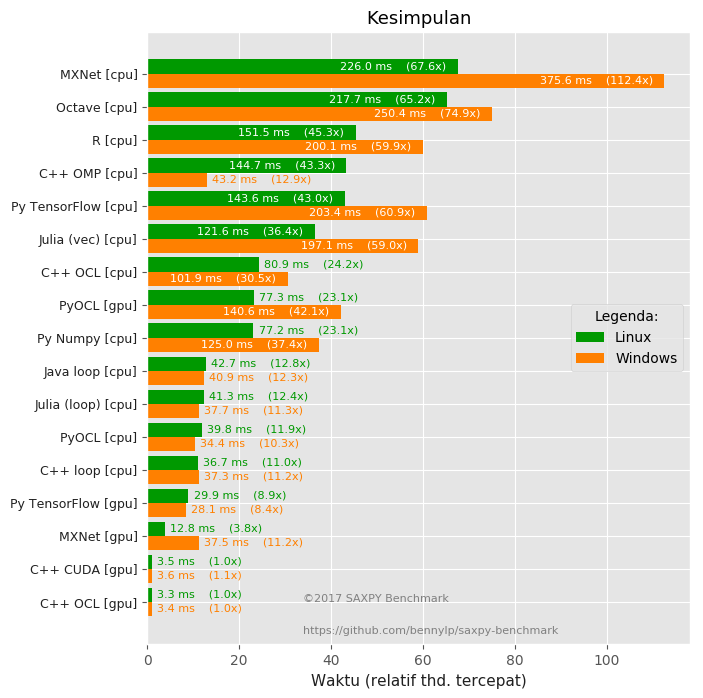
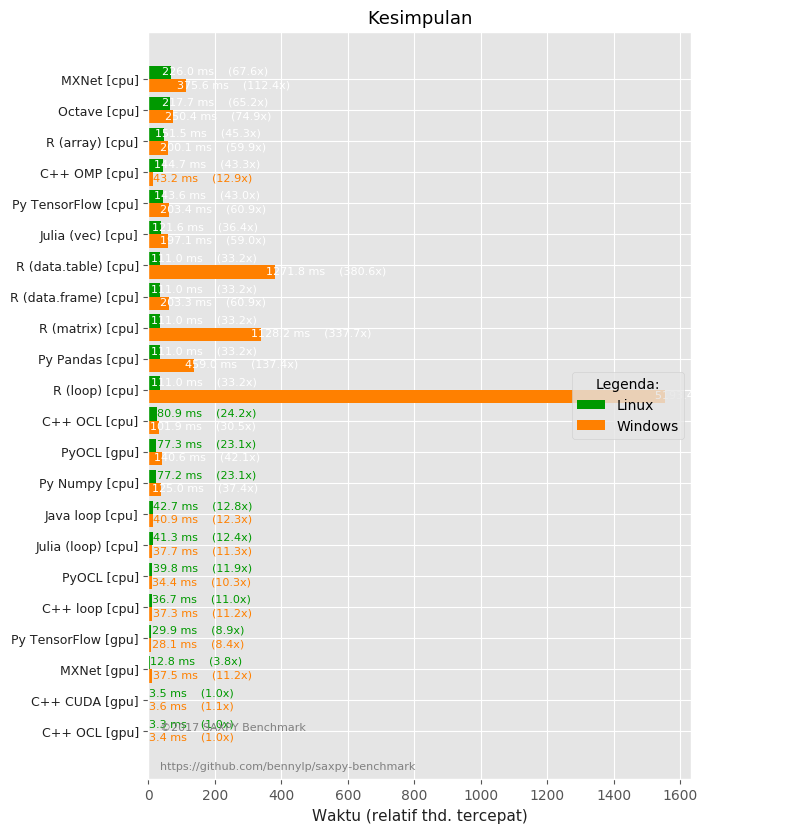
Added Python pandas and more R implementations

diff --git a/results/create_charts.py b/results/create_charts.py
@@ -11,13 +11,15 @@ import numpy as np
 import pandas as pd
 
 
-known_columns = set(['Python loop [cpu]', 'Py Numpy [cpu]',
+known_columns = set(['Python loop [cpu]', 'Py Numpy [cpu]', 'Py Pandas [cpu]',
                      'C++ loop [cpu]',
                      'C++ CUDA [gpu]',
                      'C++ OCL [cpu]', 'C++ OCL [gpu]',
                      'PyOCL [cpu]', 'PyOCL [gpu]',
                      'Py TensorFlow [cpu]', 'Py TensorFlow [gpu]',
-                     'Octave [cpu]', 'R [cpu]',
+                     'Octave [cpu]',
+                     'R (loop) [cpu]', 'R (array) [cpu]', 'R (matrix) [cpu]', 'R (data.frame) [cpu]',
+                     'R (data.table) [cpu]',
                      'Java loop [cpu]',
                      'C++ OMP [cpu]',
                      'MXNet [cpu]', 'MXNet [gpu]',
@@ -34,7 +36,8 @@ def create_chart0(spec, lang, output_dir):
 
     data = {}
     for serie in spec['series']:
-        df = pd.read_csv(serie['data'])
+        print("  Reading " + serie['data'] + "...")
+        df = pd.read_csv(serie['data'], sep=',')
         if columns:
             df = df.loc[:, columns]
         if drop_columns:
@@ -52,7 +55,10 @@ def create_chart0(spec, lang, output_dir):
     """
 
     df.sort_values(df.columns[0], ascending=False, inplace=True)
+    # print(df)
     pivot_col = df.iloc[-1].idxmin()
+    # print('  Lowest column is {}'.format(pivot_col))
+    # print('  Lowest value is {}'.format(df.iloc[-1, :][pivot_col]))
     rel = df / df.iloc[-1, :][pivot_col]
     max_value = rel.max(axis=1).iloc[0]
     # print("max_value:", max_value)

diff --git a/saxpy_pandas.py b/saxpy_pandas.py
@@ -1,0 +1,21 @@
+import time
+import numpy as np
+import pandas as pd
+import saxpy
+
+df = pd.DataFrame(np.zeros((saxpy.N, 2), dtype=np.float32), columns=["y", "x"])
+
+df.x = saxpy.XVAL
+df.y = saxpy.YVAL
+
+print("N: {}".format(df.shape[0]))
+
+t0 = time.time()
+df.y += saxpy.AVAL * df.x
+t1 = time.time()
+
+if not isinstance(df.x[0], np.float32) or not isinstance(df.y[0], np.float32):
+    raise RuntimeError("Wrong x or y type (should be float32)")
+
+print("Elapsed: {} ms".format((t1 - t0) * 1000))
+saxpy.verify(df.y)

diff --git a/results/README.md b/results/README.md
@@ -22,12 +22,17 @@ some statistics with them in the future:
 - MXNet [gpu]
 - Octave [cpu]
 - Py Numpy [cpu]
+- Py Pandas [cpu]
 - Py TensorFlow [cpu]
 - Py TensorFlow [gpu]
 - PyOCL [cpu]
 - PyOCL [gpu]
 - Python loop [cpu]
-- R [cpu]
+- R (array) [cpu]
+- R (data.frame) [cpu]
+- R (data.table) [cpu]
+- R (loop) [cpu]
+- R (matrix) [cpu]
 
 
 
@@ -64,10 +69,15 @@ Submitted by Benny Prijono on 2017-11-21
 | Python loop [cpu] | 11934.702 | 178.077 | 3571.96x |
 | MXNet [cpu] | 226.005 | 1.247 | 67.64x |
 | Octave [cpu] | 217.682 | 0.993 | 65.15x |
-| R [cpu] | 151.504 | 0.774 | 45.34x |
+| R (array) [cpu] | 151.504 | 0.774 | 45.34x |
 | C++ OMP [cpu] | 144.715 | 14.128 | 43.31x |
 | Py TensorFlow [cpu] | 143.582 | 0.479 | 42.97x |
 | Julia (vec) [cpu] | 121.649 | 0.466 | 36.41x |
+| R (data.frame) [cpu] | 111.000 | 0.000 | 33.22x |
+| R (matrix) [cpu] | 111.000 | 0.000 | 33.22x |
+| R (data.table) [cpu] | 111.000 | 0.000 | 33.22x |
+| R (loop) [cpu] | 111.000 | 0.000 | 33.22x |
+| Py Pandas [cpu] | 111.000 | 0.000 | 33.22x |
 | C++ OCL [cpu] | 80.856 | 0.061 | 24.20x |
 | PyOCL [gpu] | 77.332 | 0.257 | 23.14x |
 | Py Numpy [cpu] | 77.161 | 0.378 | 23.09x |
@@ -91,10 +101,15 @@ Submitted by Benny Prijono on 2017-11-21
 - **outlier "Python loop [cpu]" is removed from the chart because it is 3571x slower**
 - **outlier "MXNet [cpu]" is removed from the chart because it is 67x slower**
 - **outlier "Octave [cpu]" is removed from the chart because it is 65x slower**
-- **outlier "R [cpu]" is removed from the chart because it is 45x slower**
+- **outlier "R (array) [cpu]" is removed from the chart because it is 45x slower**
 - **outlier "C++ OMP [cpu]" is removed from the chart because it is 43x slower**
 - **outlier "Py TensorFlow [cpu]" is removed from the chart because it is 42x slower**
 - **outlier "Julia (vec) [cpu]" is removed from the chart because it is 36x slower**
+- **outlier "R (data.frame) [cpu]" is removed from the chart because it is 33x slower**
+- **outlier "R (matrix) [cpu]" is removed from the chart because it is 33x slower**
+- **outlier "R (data.table) [cpu]" is removed from the chart because it is 33x slower**
+- **outlier "R (loop) [cpu]" is removed from the chart because it is 33x slower**
+- **outlier "Py Pandas [cpu]" is removed from the chart because it is 33x slower**
 - **outlier "C++ OCL [cpu]" is removed from the chart because it is 24x slower**
 - **outlier "PyOCL [gpu]" is removed from the chart because it is 23x slower**
 - **outlier "Py Numpy [cpu]" is removed from the chart because it is 23x slower**
@@ -134,7 +149,7 @@ Submitted by Benny Prijono on 2017-11-14
 | Python loop [cpu] | 12019.500 | 79.322 | 375.96x |
 | Octave [cpu] | 314.848 | 15.985 | 9.85x |
 | PyOCL [gpu] | 222.500 | 3.271 | 6.96x |
-| R [cpu] | 216.237 | 2.749 | 6.76x |
+| R (array) [cpu] | 216.237 | 2.749 | 6.76x |
 | Py TensorFlow [cpu] | 214.564 | 2.450 | 6.71x |
 | Py Numpy [cpu] | 124.167 | 1.472 | 3.88x |
 | C++ OCL [cpu] | 110.983 | 2.128 | 3.47x |
